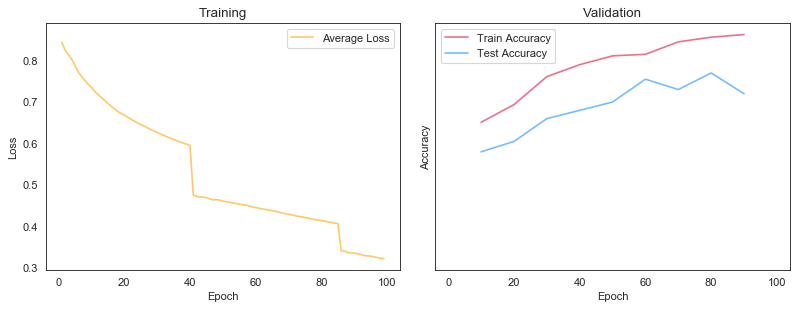
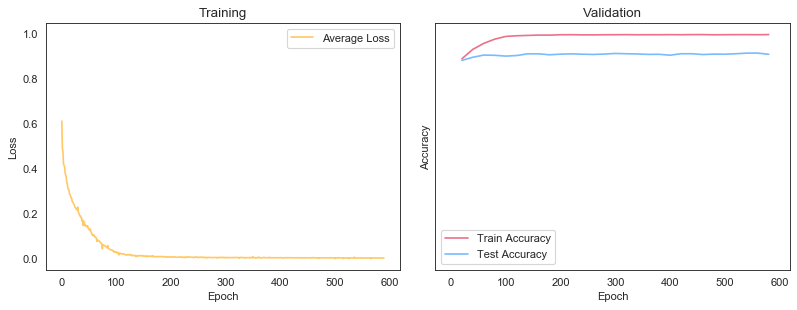
docs: update

diff --git a/examples/GenderTraining/README.md b/examples/GenderTraining/README.md
@@ -57,8 +57,8 @@ python tools\gender-hist.py UTKFaceDataset
 
 ````
 cd <GenderTraining_dir>
-dotnet run -c Release -- -d=UTKFaceDataset -b=400 -e=1500 -v=20
-              Epoch: 1500
+dotnet run -c Release -- -d=UTKFaceDataset -b=400 -e=600 -v=20
+              Epoch: 600
       Learning Rate: 0.001
   Min Learning Rate: 1E-05
      Min Batch Size: 400
@@ -84,7 +84,7 @@ Epoch: 8, learning Rate: 0.001, average loss: 0.369290893870278
 Epoch: 9, learning Rate: 0.001, average loss: 0.361628701590169
 step#: 487   learning rate: 0.001  average loss: 0.361323     steps without apparent progress: 16
 Epoch: 10, learning Rate: 0.001, average loss: 0.336463510539802
-Saved state to utkface-gender-network_1500_0.001_1E-05_400
+Saved state to utkface-gender-network_600_0.001_1E-05_400
 Epoch: 11, learning Rate: 0.001, average loss: 0.332591397454274
 step#: 606   learning rate: 0.001  average loss: 0.329499     steps without apparent progress: 43
 Epoch: 12, learning Rate: 0.001, average loss: 0.309775507864488
@@ -102,30 +102,29 @@ Epoch: 20, learning Rate: 0.001, average loss: 0.253938037542761
 Epoch: 20, train accuracy: 0.884266582305178, test accuracy: 0.878429717180245
 ...
 ...
-Saved state to utkface-gender-network
-Epoch: 281   learning rate: 1e-05  average loss: 0.00222318   steps without apparent progress: 1444
-Epoch: 282   learning rate: 1e-05  average loss: 0.00189907   steps without apparent progress: 1510
-Saved state to utkface-gender-network_
-Epoch: 283   learning rate: 1e-05  average loss: 0.00290589   steps without apparent progress: 1576
-Saved state to utkface-gender-network
-Epoch: 284   learning rate: 1e-05  average loss: 0.00326266   steps without apparent progress: 1642
-Epoch: 285   learning rate: 1e-05  average loss: 0.00220292   steps without apparent progress: 1708
-Saved state to utkface-gender-network_
-Epoch: 286   learning rate: 1e-05  average loss: 0.00248163   steps without apparent progress: 1763
-Epoch: 287   learning rate: 1e-05  average loss: 0.00245077   steps without apparent progress: 1829
-Saved state to utkface-gender-network
-Epoch: 288   learning rate: 1e-05  average loss: 0.00278778   steps without apparent progress: 1895
-Saved state to utkface-gender-network_
-Epoch: 289   learning rate: 1e-05  average loss: 0.00261527   steps without apparent progress: 1961
-Epoch: 290   learning rate: 1e-06  average loss: 0.00226204   steps without apparent 
-progress: 0
-Saved state to utkface-gender-network
-training num_right: 18948
-training num_wrong: 18
-training accuracy:  0.999050933248972
-testing num_right: 4260
-testing num_wrong: 478
-testing accuracy:  0.899113550021106
+Epoch: 590, learning Rate: 1E-05, average loss: 0.00314736557554334
+step#: 28368  learning rate: 1e-05  average loss: 0.00314737   steps without apparent progress: 1422
+Epoch: 591, learning Rate: 1E-05, average loss: 0.00301913976009434
+Saved state to utkface-gender-network_600_0.001_1E-05_400_
+Epoch: 592, learning Rate: 1E-05, average loss: 0.00311165843646179
+step#: 28486  learning rate: 1e-05  average loss: 0.0030405    steps without apparent progress: 1543
+Epoch: 593, learning Rate: 1E-05, average loss: 0.00355719667702782
+Epoch: 594, learning Rate: 1E-05, average loss: 0.00323933126534789
+step#: 28606  learning rate: 1e-05  average loss: 0.00313994   steps without apparent progress: 1664
+Epoch: 595, learning Rate: 1E-05, average loss: 0.00382428842364837
+Epoch: 596, learning Rate: 1E-05, average loss: 0.00292338314099893
+Epoch: 597, learning Rate: 1E-05, average loss: 0.00300246790072112
+step#: 28727  learning rate: 1e-05  average loss: 0.00304047   steps without apparent progress: 1785
+Epoch: 598, learning Rate: 1E-05, average loss: 0.00299024601756618
+Epoch: 599, learning Rate: 1E-05, average loss: 0.00284008706881824
+Saved state to utkface-gender-network_600_0.001_1E-05_400
+done training
+training num_right: 18928
+training num_wrong: 38
+training accuracy:  0.997996414636718
+testing num_right: 4309
+testing num_wrong: 429
+testing accuracy:  0.909455466441537
 ````
 
 ## 6. Check training (Option)
@@ -133,7 +132,7 @@ testing accuracy:  0.899113550021106
 You can check training log as graph.
 
 ````
-python tools\visualize-log.py utkface-gender-network_100_0.001_1E-05_400.log
+python tools\visualize-log.py utkface-gender-network_600_0.001_1E-05_400.log
 ````
 
 <img src="images/visualize-log.png"/>
